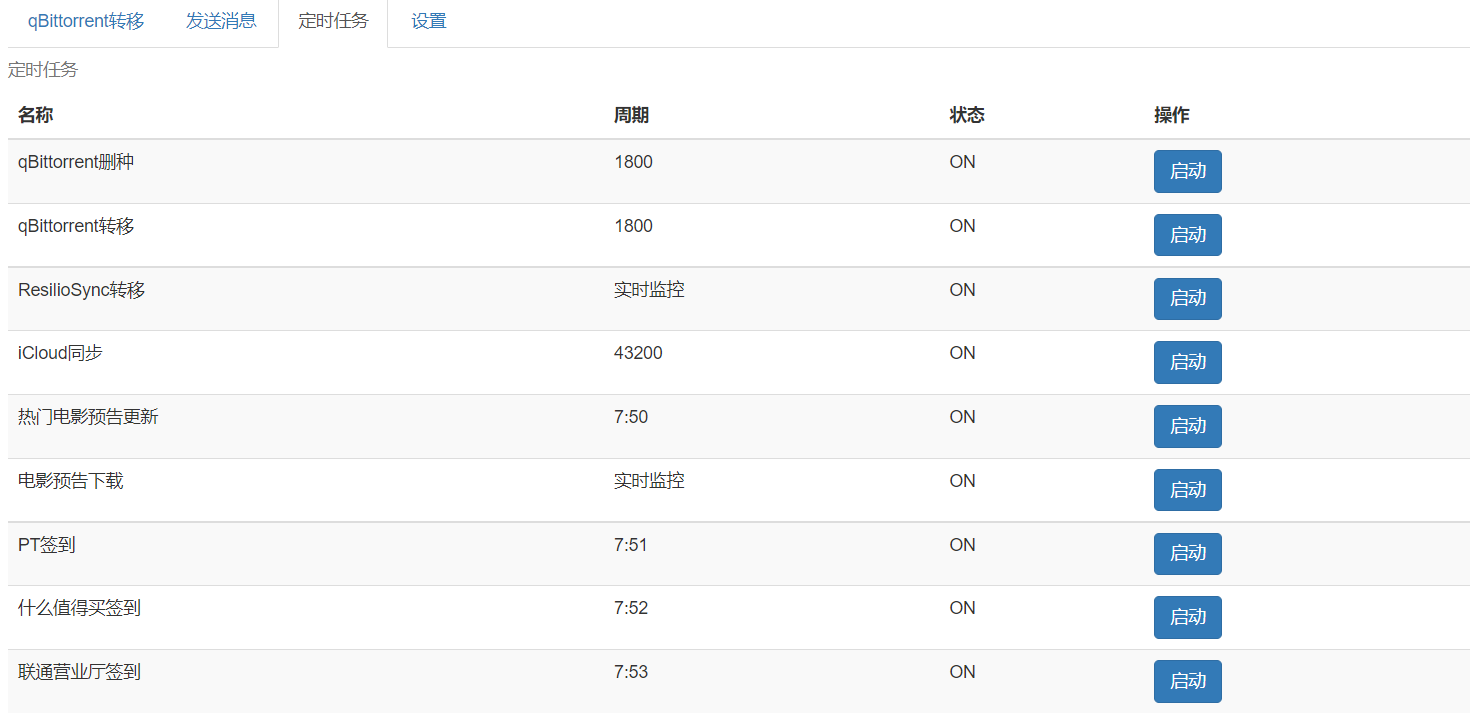
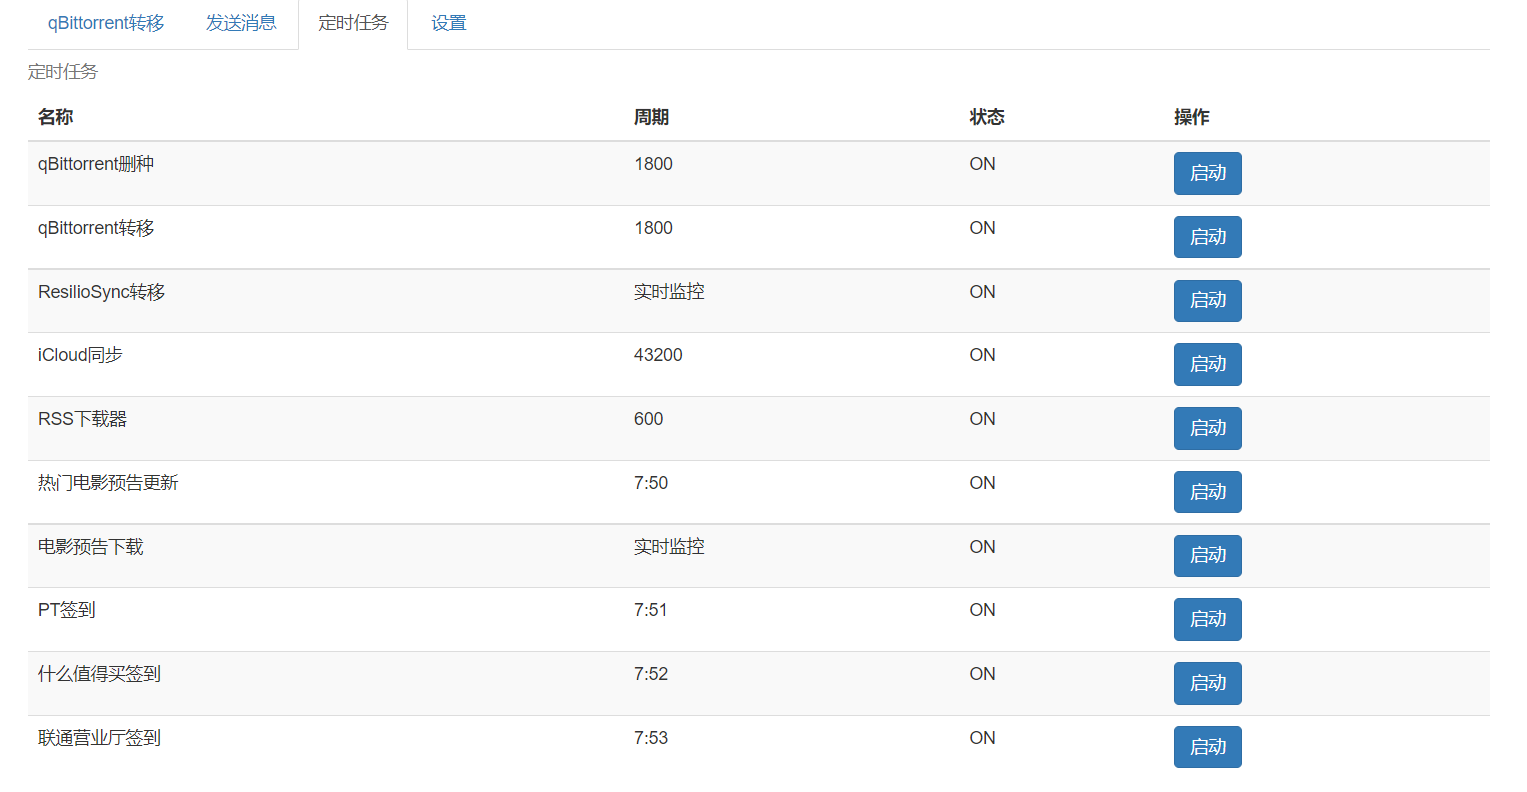
rss download

diff --git a/web/templates/main.html b/web/templates/main.html
@@ -114,6 +114,12 @@
 									<td>{{ sta_icloudpd }}</td>
 								  	<td><button id="sch_btn_icloudpd" type="button" class="sch_action_btn btn btn-primary">启动</button></td>
 								</tr>
+								<tr>
+								  	<td>RSS下载器</td>
+								  	<td>{{ tim_rssdownload }}</td>
+									<td>{{ sta_rssdownload }}</td>
+								  	<td><button id="sch_btn_rssdownload" type="button" class="sch_action_btn btn btn-primary">启动</button></td>
+								</tr>
 							  	<tr>
 								  	<td>热门电影预告更新</td>
 								  	<td>{{ tim_hottrailers }}</td>

diff --git a/web/main.py b/web/main.py
@@ -12,6 +12,7 @@ from scheduler.hot_trailer import run_hottrailers
 from scheduler.icloudpd import run_icloudpd
 from scheduler.pt_signin import run_ptsignin
 from scheduler.qb_transfer import run_qbtransfer
+from scheduler.rss_download import run_rssdownload
 from scheduler.smzdm_signin import run_smzdmsignin
 from scheduler.unicom_signin import run_unicomsignin
 from web.emby.discord import report_to_discord
@@ -83,6 +84,8 @@ def create_app():
         sta_unicomsignin = settings.get("scheduler.unicomsignin_flag")
         sta_movietrailer = settings.get("monitor.movie_flag")
         sta_resiliosync = settings.get("monitor.resiliosync_flag")
+        tim_rssdownload = settings.get("scheduler.rssdownload_interval")
+        sta_rssdownload = settings.get("scheduler.rssdownload_flag")
 
         return render_template("main.html",
                                page="rmt",
@@ -103,7 +106,9 @@ def create_app():
                                tim_unicomsignin=tim_unicomsignin,
                                sta_unicomsignin=sta_unicomsignin,
                                sta_movietrailer=sta_movietrailer,
-                               sta_resiliosync=sta_resiliosync
+                               sta_resiliosync=sta_resiliosync,
+                               tim_rssdownload=tim_rssdownload,
+                               sta_rssdownload=sta_rssdownload
                                )
 
     # 事件响应
@@ -180,6 +185,8 @@ def create_app():
                     movie_trailer_all()
                 if sch_item == "sch_btn_resiliosync":
                     resiliosync_all()
+                if sch_item == "sch_btn_rssdownload":
+                    run_rssdownload()
                 return {"retmsg": "执行完成！", "item": sch_item}
 
     return app

diff --git a/scheduler/rss_download.py b/scheduler/rss_download.py
@@ -1,0 +1,13 @@
+# RSS下载器
+import log
+import settings
+
+logger = log.Logger("scheduler").logger
+
+
+def run_rssdownload():
+    pass
+
+
+if __name__ == "__main__":
+    run_rssdownload()

diff --git a/README.md b/README.md
@@ -7,7 +7,7 @@
 监控Resilio Sync同步目录，识别电影剧集名称并从TheMovieDb搜刮媒体信息，复制到Emby/Plex媒体库目录并重命名，命名格式："名称 (年份)/名称 (年份) - 分辨率.后缀"
 
 ### 3、定时任务
-PT站、什么值得买、联动营业厅每日签到，qBittorrent做种清理、电影预告片搜刮和下载，具体看图：
+RSS订阅自动下载，每日签到（PT站、什么值得买、联动营业厅），qBittorrent做种清理、电影预告片搜刮和下载，具体看图：
 ![定时任务](https://github.com/jxxghp/nastool/blob/master/nastool.png)
 
 ### 4、消息
